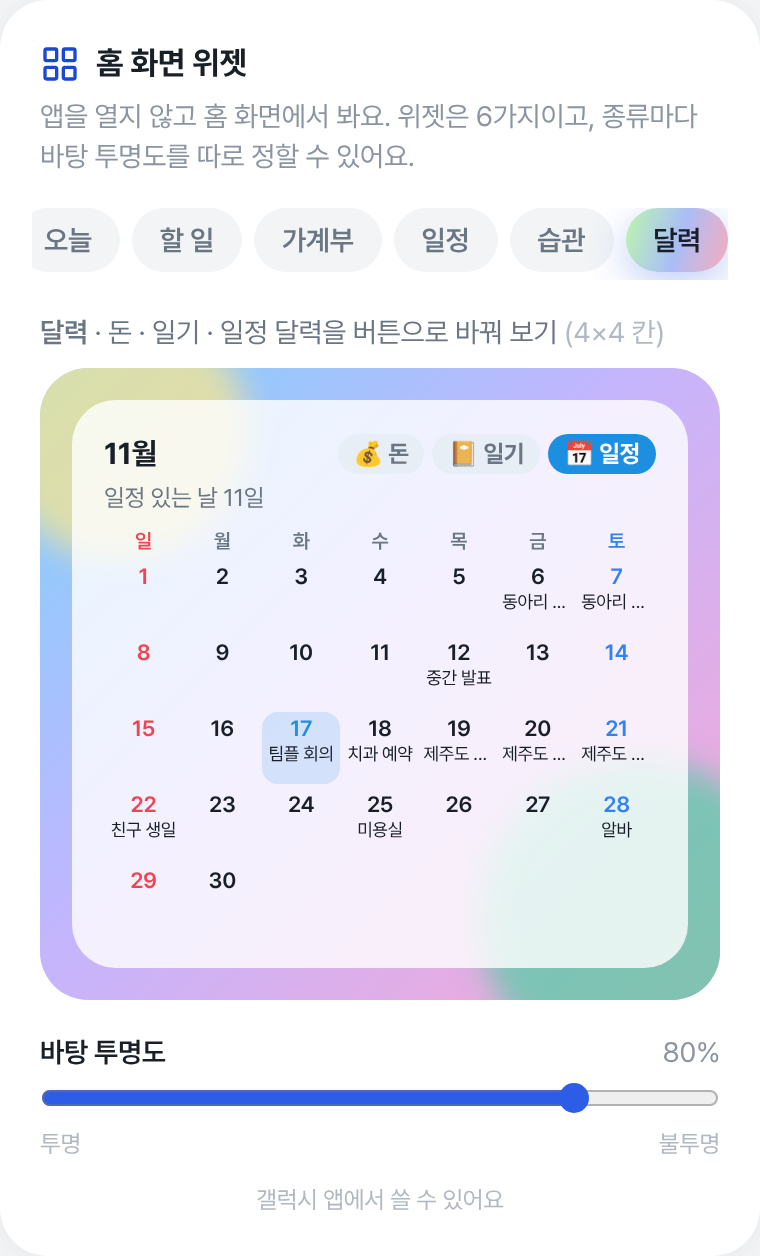
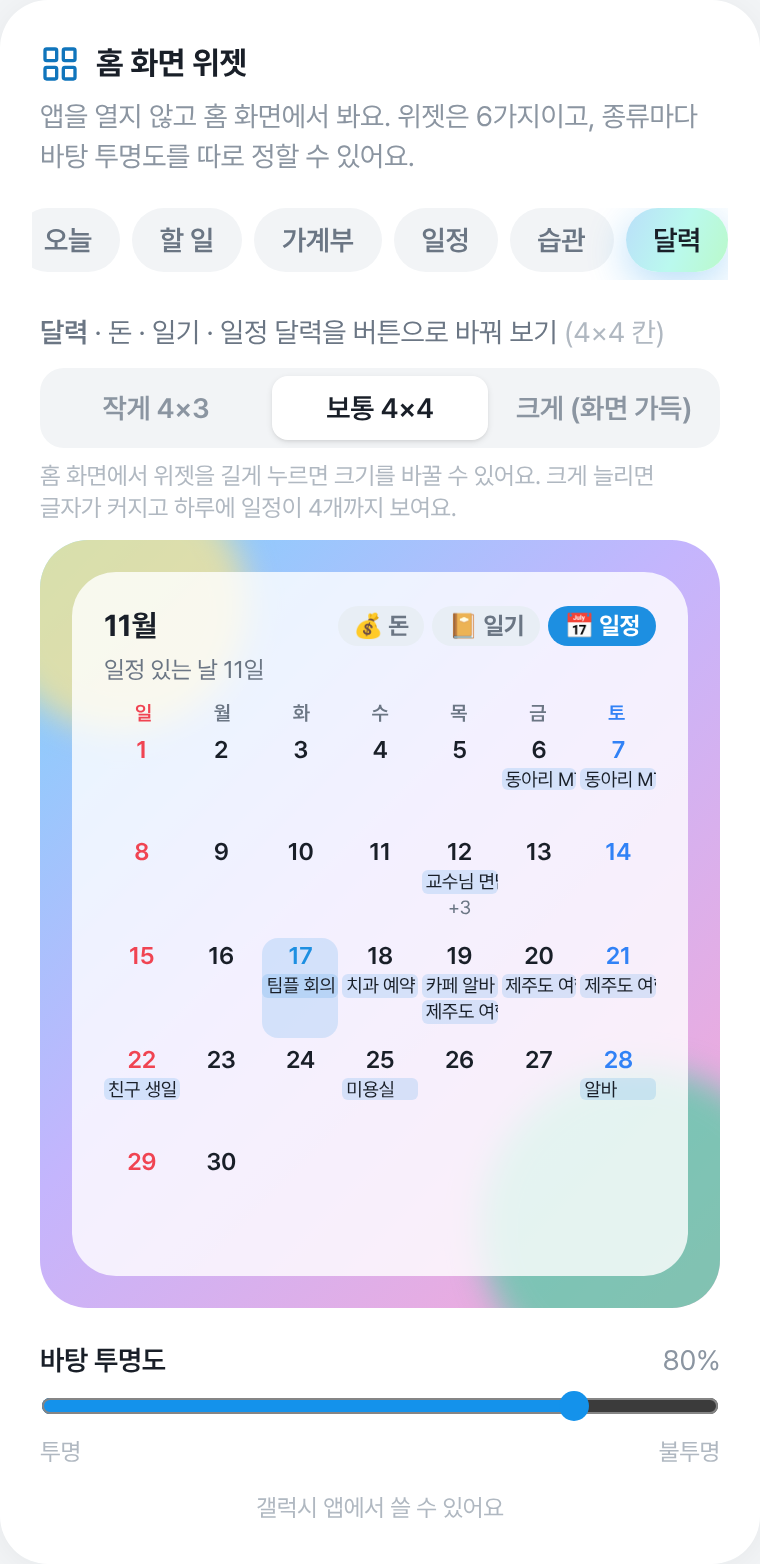
달력 위젯 일정 글씨: 두 줄로 깨지지 않게 한 줄 칸으로, 넘치면 +남은 수
Claude-Session: https://claude.ai/code/session_01Ji86Qvh1Lpc1KBsMKFNZwL

diff --git a/src/components/settings/WidgetCard.tsx b/src/components/settings/WidgetCard.tsx
@@ -100,7 +100,7 @@ export default function WidgetCard() {
               </button>
             ))}
           </div>
-          <p className="mt-1.5 text-xs break-keep text-slate-400">홈 화면에서 위젯을 길게 누르면 크기를 바꿀 수 있어요. 크게 늘리면 글자가 커지고 하루에 일정이 4개까지, 제목도 길게 보여요.</p>
+          <p className="mt-1.5 text-xs break-keep text-slate-400">홈 화면에서 위젯을 길게 누르면 크기를 바꿀 수 있어요. 크게 늘리면 글자가 커지고 하루에 일정이 4개까지 보여요.</p>
         </div>
       )}
       <Wallpaper tall={kind === 'calendar' && calSize === 'large'}>
@@ -380,7 +380,7 @@ const WEEK_HEAD = ['일', '월', '화', '수', '목', '금', '토']
 const CAL_LOOK: Record<CalendarSize, { frame: string; day: string; line: string; dot: string }> = {
   small: { frame: 'h-64', day: 'text-[11px]', line: 'text-[9px]', dot: 'size-2' },
   medium: { frame: 'h-[22rem]', day: 'text-[12px]', line: 'text-[9.5px]', dot: 'size-2.5' },
-  large: { frame: 'h-full', day: 'text-[14px]', line: 'text-[10.5px]', dot: 'size-3' },
+  large: { frame: 'h-full', day: 'text-[14px]', line: 'text-[10px]', dot: 'size-3' },
 }
 
 /** '달력' 위젯 (widget_calendar.xml): 위의 버튼으로 돈 · 일기 · 일정 달력을 바꿔 본다 */
@@ -428,7 +428,10 @@ function CalendarWidgetPreview({ summary, today, opacity, size }: { summary: Wid
                     <span className={`mt-0.5 ${look.dot} rounded-full`} style={{ background: c.dot }} />
                   ) : (
                     c.lines.map((l, n) => (
-                      <span key={n} className={`w-full px-0.5 ${look.line} leading-tight ${size === 'large' ? 'mt-0.5 line-clamp-2 break-all' : 'truncate'} ${mode === 'money' ? 'text-[#f04452]' : ''}`}>
+                      <span
+                        key={n}
+                        className={`w-full overflow-hidden whitespace-nowrap ${look.line} leading-tight ${mode === 'money' ? 'text-[#f04452]' : l.startsWith('+') ? `mt-px ${MUTED}` : 'mt-px rounded-[3px] bg-[#1d8fe1]/15 px-0.5 text-left'}`}
+                      >
                         {l}
                       </span>
                     ))

diff --git a/tests/unit/widgetSummary.test.ts b/tests/unit/widgetSummary.test.ts
@@ -1,6 +1,6 @@
 import { describe, expect, it } from 'vitest'
 import type { CalendarEvent, Habit, Todo, Transaction } from '../../src/db/types'
-import { buildWidgetSummary, calendarSizeOf, calendarWidgetView, eventWidgetView, habitWidgetView, moneyWidgetView, todoWidgetView, widgetRange, widgetView, WIDGET_DAYS } from '../../src/lib/widgetSummary'
+import { buildWidgetSummary, calendarSizeOf, calendarWidgetView, eventLines, eventWidgetView, habitWidgetView, moneyWidgetView, todoWidgetView, widgetRange, widgetView, WIDGET_DAYS } from '../../src/lib/widgetSummary'
 
 const todo = (title: string, dueDate: string | null, done = false): Todo => ({
   title,
@@ -164,11 +164,16 @@ describe('달력 위젯', () => {
   it('돈 · 일기 · 일정 모드마다 칸 글자가 바뀐다', () => {
     const cell = (mode: 'money' | 'diary' | 'event', day: number, size?: 'small' | 'medium' | 'large') => calendarWidgetView(s, '2026-11-10', mode, size).weeks.flat().find((c) => c?.day === day)
     expect(cell('money', 10)?.lines).toEqual(['1.2만'])
-    expect(cell('event', 10, 'small')?.lines).toEqual(['여행 +1'])
+    expect(cell('event', 10, 'small')?.lines).toEqual(['여행'])
     expect(cell('event', 10, 'large')?.lines).toEqual(['여행', '회의'])
     expect(cell('diary', 3)?.dot).toBe('#ffb3c7')
     expect(cell('money', 10)?.today).toBe(true)
     expect(calendarWidgetView(s, '2026-11-10', 'money').sum).toBe('지출 2.9만원')
+  })
+
+  it('일정이 줄보다 많으면 마지막 줄은 +남은 수', () => {
+    expect(eventLines([5, 'a', 'b', 'c', 'd'], 2)).toEqual(['a', '+4'])
+    expect(eventLines([4, 'a', 'b', 'c', 'd'], 4)).toEqual(['a', 'b', 'c', 'd'])
   })
 
   it('위젯 높이로 크기를 고른다', () => {

diff --git a/src/lib/widgetSummary.ts b/src/lib/widgetSummary.ts
@@ -383,11 +383,9 @@ export function calendarWidgetView(s: WidgetSummary | null, today: string, mode:
   return { stale: !month, locked: s?.locked ?? false, monthLabel, sum, weeks }
 }
 
-/** 한 칸의 일정 줄: 줄이 모자라면 마지막 줄 뒤에 "+남은 수" */
+/** 한 칸의 일정 줄: 넘치면 마지막 줄을 "+남은 수"로 (줄이 하나뿐이면 첫 제목만) */
 export function eventLines(entry: [number, ...string[]], max: number): string[] {
   const [count, ...titles] = entry
-  const shown = titles.slice(0, max)
-  const rest = count - shown.length
-  if (rest > 0 && shown.length > 0) shown[shown.length - 1] = `${shown[shown.length - 1]} +${rest}`
-  return shown
+  if (count <= max || max < 2) return titles.slice(0, max)
+  return [...titles.slice(0, max - 1), `+${count - (max - 1)}`]
 }

diff --git a/android/app/src/main/java/com/kcr522/tidy/CalendarWidget.java b/android/app/src/main/java/com/kcr522/tidy/CalendarWidget.java
@@ -10,6 +10,7 @@ import android.os.Bundle;
 import android.util.TypedValue;
 import android.text.SpannableStringBuilder;
 import android.text.Spanned;
+import android.text.style.BackgroundColorSpan;
 import android.text.style.ForegroundColorSpan;
 import android.text.style.RelativeSizeSpan;
 import android.text.style.StyleSpan;
@@ -102,7 +103,7 @@ public class CalendarWidget extends TidyBaseWidget {
 
     /** 칸이 좁아서 제목이 다음 줄로 넘어가지 않게 앞 몇 글자만 */
     private static String clip(String title, int max) {
-        return title.codePointCount(0, title.length()) <= max ? title : title.substring(0, title.offsetByCodePoints(0, max)) + "…";
+        return title.codePointCount(0, title.length()) <= max ? title : title.substring(0, title.offsetByCodePoints(0, max));
     }
 
     private static String trim(double v) {
@@ -121,8 +122,10 @@ public class CalendarWidget extends TidyBaseWidget {
         String mode = modeOf(context, appWidgetId);
         int size = sizeOf(context, appWidgetId);
         float daySp = size == 0 ? 11f : size == 1 ? 12f : 14f;
-        // 작게 1개, 보통 2개, 크게 4개 (CAL_EVENT_LINES). 크게일 때는 제목이 두 줄로 넘어가도 된다
+        // 작게 1개, 보통 2개, 크게 4개 (CAL_EVENT_LINES). 제목은 한 줄에 몇 글자만 (칸을 넘어 다음 줄로 가지 않게)
         int eventLines = size == 2 ? 4 : size + 1;
+        float eventScale = 10f / daySp;
+        int eventTint = context.getColor(R.color.widget_today);
         v.setTextViewTextSize(R.id.widget_title, TypedValue.COMPLEX_UNIT_SP, size == 2 ? 17f : 15f);
         JSONObject summary = WidgetData.summary(context);
         WidgetData.applyOpacity(v, summary, kind());
@@ -189,7 +192,7 @@ public class CalendarWidget extends TidyBaseWidget {
             int id = CELL_IDS[i];
             v.setInt(id, "setBackgroundResource", 0);
             v.setTextViewTextSize(id, TypedValue.COMPLEX_UNIT_SP, daySp);
-            v.setInt(id, "setMaxLines", size == 2 ? 1 + eventLines * 2 : 1 + eventLines);
+            v.setInt(id, "setMaxLines", 1 + eventLines);
             if (day < 1 || day > days) {
                 v.setTextViewText(id, "");
                 continue;
@@ -207,16 +210,25 @@ public class CalendarWidget extends TidyBaseWidget {
                     b.setSpan(new ForegroundColorSpan(red), start, b.length(), Spanned.SPAN_EXCLUSIVE_EXCLUSIVE);
                     b.setSpan(new RelativeSizeSpan(0.82f), start, b.length(), Spanned.SPAN_EXCLUSIVE_EXCLUSIVE);
                 } else if ("event".equals(mode) && events != null && events.has(k)) {
-                    // [일정 수, 제목1, 제목2, 제목3] → 크기만큼 줄, 모자라면 마지막 줄에 "+남은 수"
+                    // [일정 수, 제목…] → 크기만큼 줄. 넘치면 마지막 줄은 "+남은 수" (widgetSummary.ts 의 eventLines)
                     JSONArray e = events.optJSONArray(k);
                     int count = e == null ? 0 : e.optInt(0, 0);
-                    int shown = e == null ? 0 : Math.min(eventLines, e.length() - 1);
+                    int titles = e == null ? 0 : e.length() - 1;
+                    boolean more = count > eventLines && eventLines >= 2;
+                    int shown = Math.min(more ? eventLines - 1 : eventLines, titles);
                     for (int t = 0; t < shown; t++) {
-                        b.append("\n").append(clip(e.optString(t + 1, ""), size == 2 ? 10 : 5));
-                        if (t == shown - 1 && count > shown) b.append(" +").append(String.valueOf(count - shown));
+                        b.append("\n");
+                        int ls = b.length();
+                        b.append(clip(e.optString(t + 1, ""), 4));
+                        b.setSpan(new BackgroundColorSpan(eventTint), ls, b.length(), Spanned.SPAN_EXCLUSIVE_EXCLUSIVE);
                     }
-                    b.setSpan(new ForegroundColorSpan(text), start, b.length(), Spanned.SPAN_EXCLUSIVE_EXCLUSIVE);
-                    b.setSpan(new RelativeSizeSpan(0.82f), start, b.length(), Spanned.SPAN_EXCLUSIVE_EXCLUSIVE);
+                    if (more) {
+                        b.append("\n");
+                        int ls = b.length();
+                        b.append("+").append(String.valueOf(count - shown));
+                        b.setSpan(new ForegroundColorSpan(muted), ls, b.length(), Spanned.SPAN_EXCLUSIVE_EXCLUSIVE);
+                    }
+                    b.setSpan(new RelativeSizeSpan(eventScale), start, b.length(), Spanned.SPAN_EXCLUSIVE_EXCLUSIVE);
                 } else if ("diary".equals(mode) && diaries != null && diaries.has(k)) {
                     int color = brand;
                     try {
